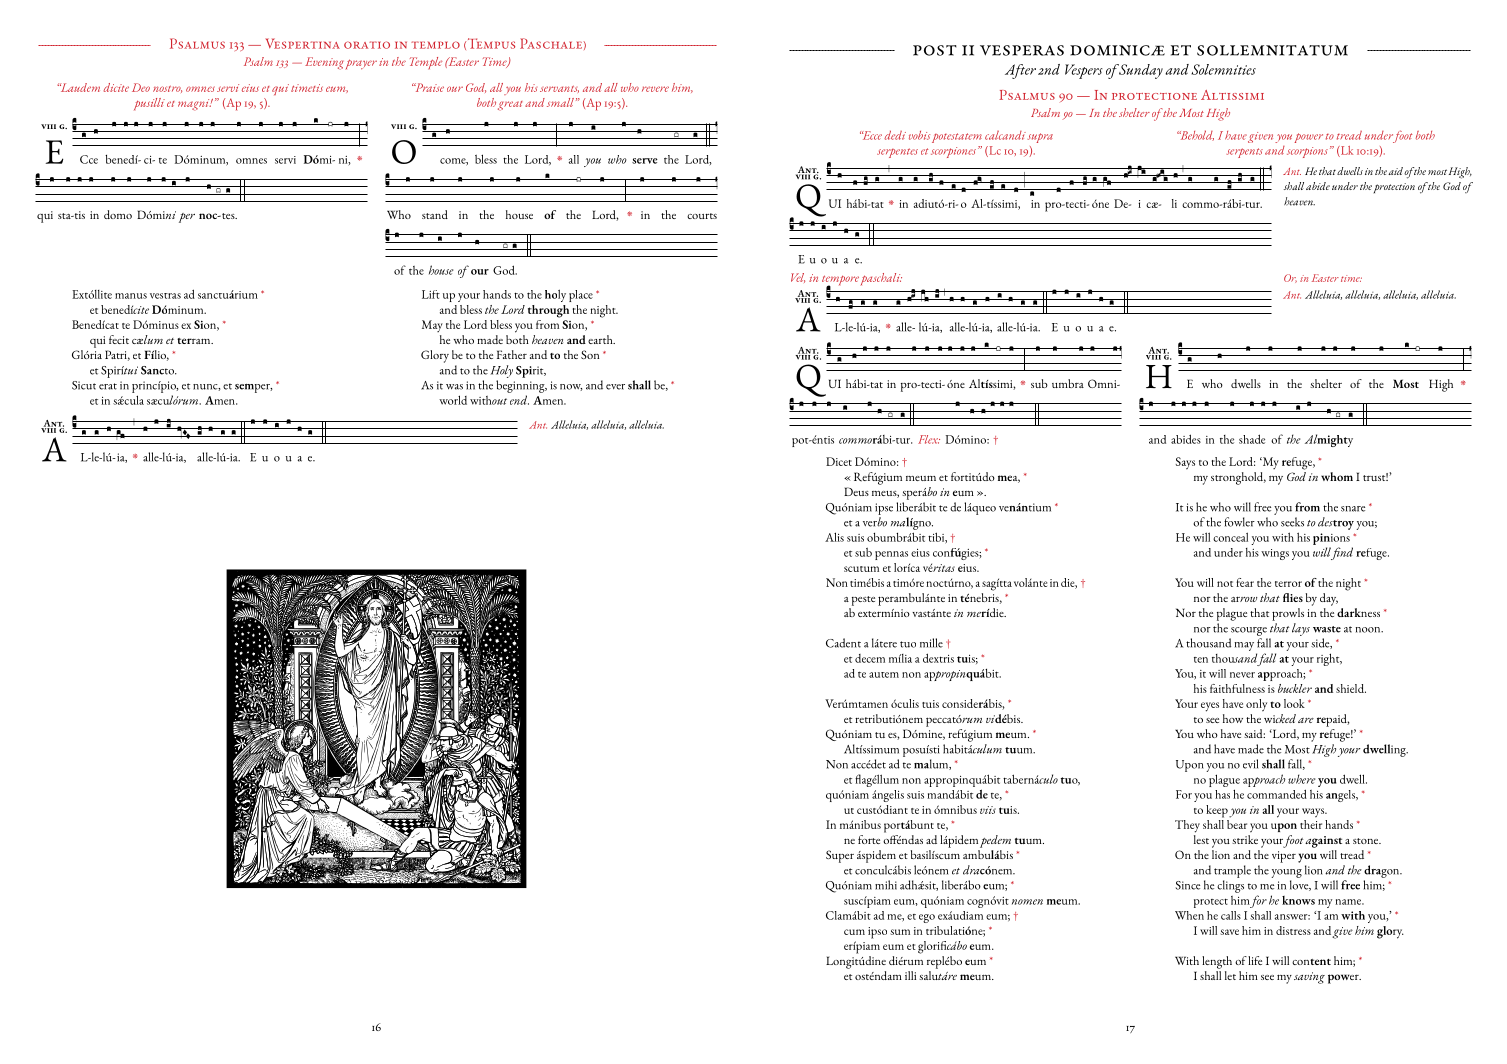
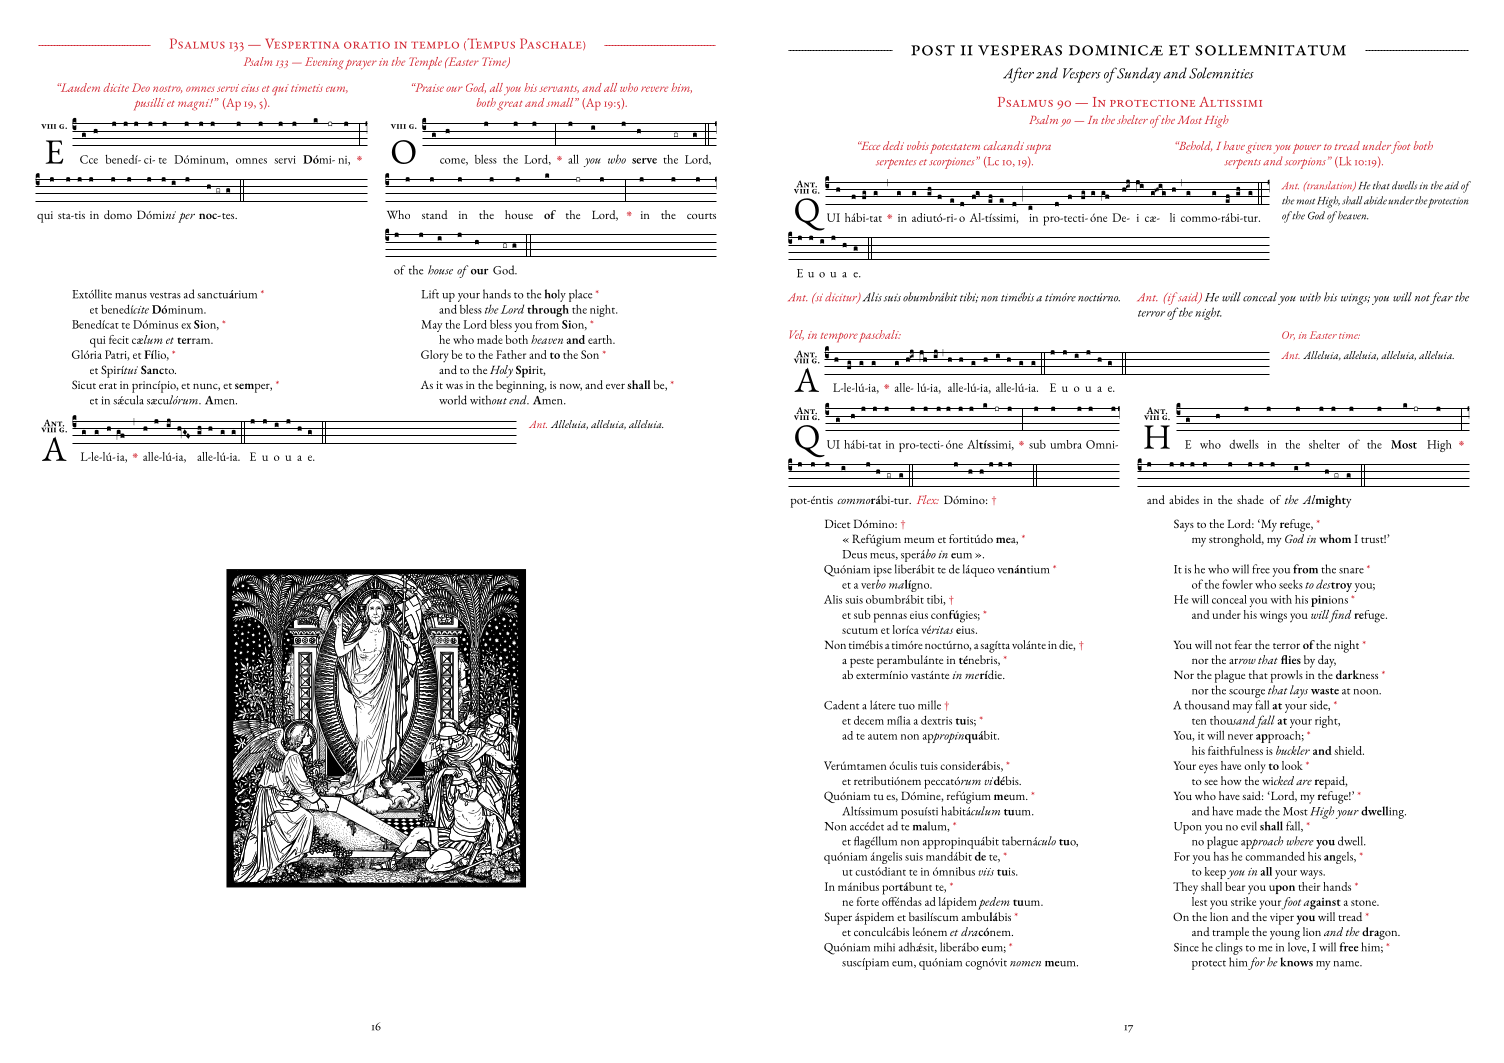
Added note on said antiphons

Changed region(s): [[0.5, 0.031, 1.0, 0.9313], [0.0312, 0.031, 0.4688, 0.4346], [0.1562, 0.5278, 0.3438, 0.8382]]

diff --git a/README.md b/README.md
@@ -10,7 +10,7 @@ This booklet contains all the texts for singing Compline for every day of the ye
 
 There are two PDFs (both found in [Releases](https://codeberg.org/JeremyCains/BilingualCompline/releases)): one A4, and the other A3. The A4 is simply sequential. The A3 has two A4 pages per A3 page, and can be folded into a book.
 
-The texts are from the current Latin and English books, as of 2026, taken from the English version approved by the Episcopal Conferences of Australia, England and Wales, Ireland and Scotland (N.B. this is different to the English translation used in USA). The English translations of the hymns are from [Universalis](https://universalis.com/index.htm). Nota bene that the antiphons are using the sung texts, which differ from the spoken texts.
+The texts are from the current Latin and English books, as of 2026, taken from the English version approved by the Episcopal Conferences of Australia, England and Wales, Ireland and Scotland (N.B. this is different to the English translation used in USA). The English translations of the hymns are from [Universalis](https://universalis.com/index.htm). Antiphons that can be said are also provided.
 
 The Gregorian chant is taken principally from Joerg Hudelmaier's compilation of chants for the 2015 Ordo Cantus Officii (OCO), which can be found at [www.antiphonale.net/](https://www.antiphonale.net/), or in [PDF](https://www.antiphonale.net/oco.pdf). Other pieces where compiled from his [Easter chants PDF](https://antiphonale.net/OCO/DeTempore/Paschali/Libellus.pdf), from Steven van Roode's [*Ad Completorium*](https://www.kleingraduale.nl/LiturgiaHorarum/), and from the 2009 *Antiphonale Romanum II* and 2005 *Antiphonale Monasticum* from the monks of Solesmes. I must also thank Benjamin Bloomfield for his chant tools, and the people behind the Gregorio project. God bless these men.
 
